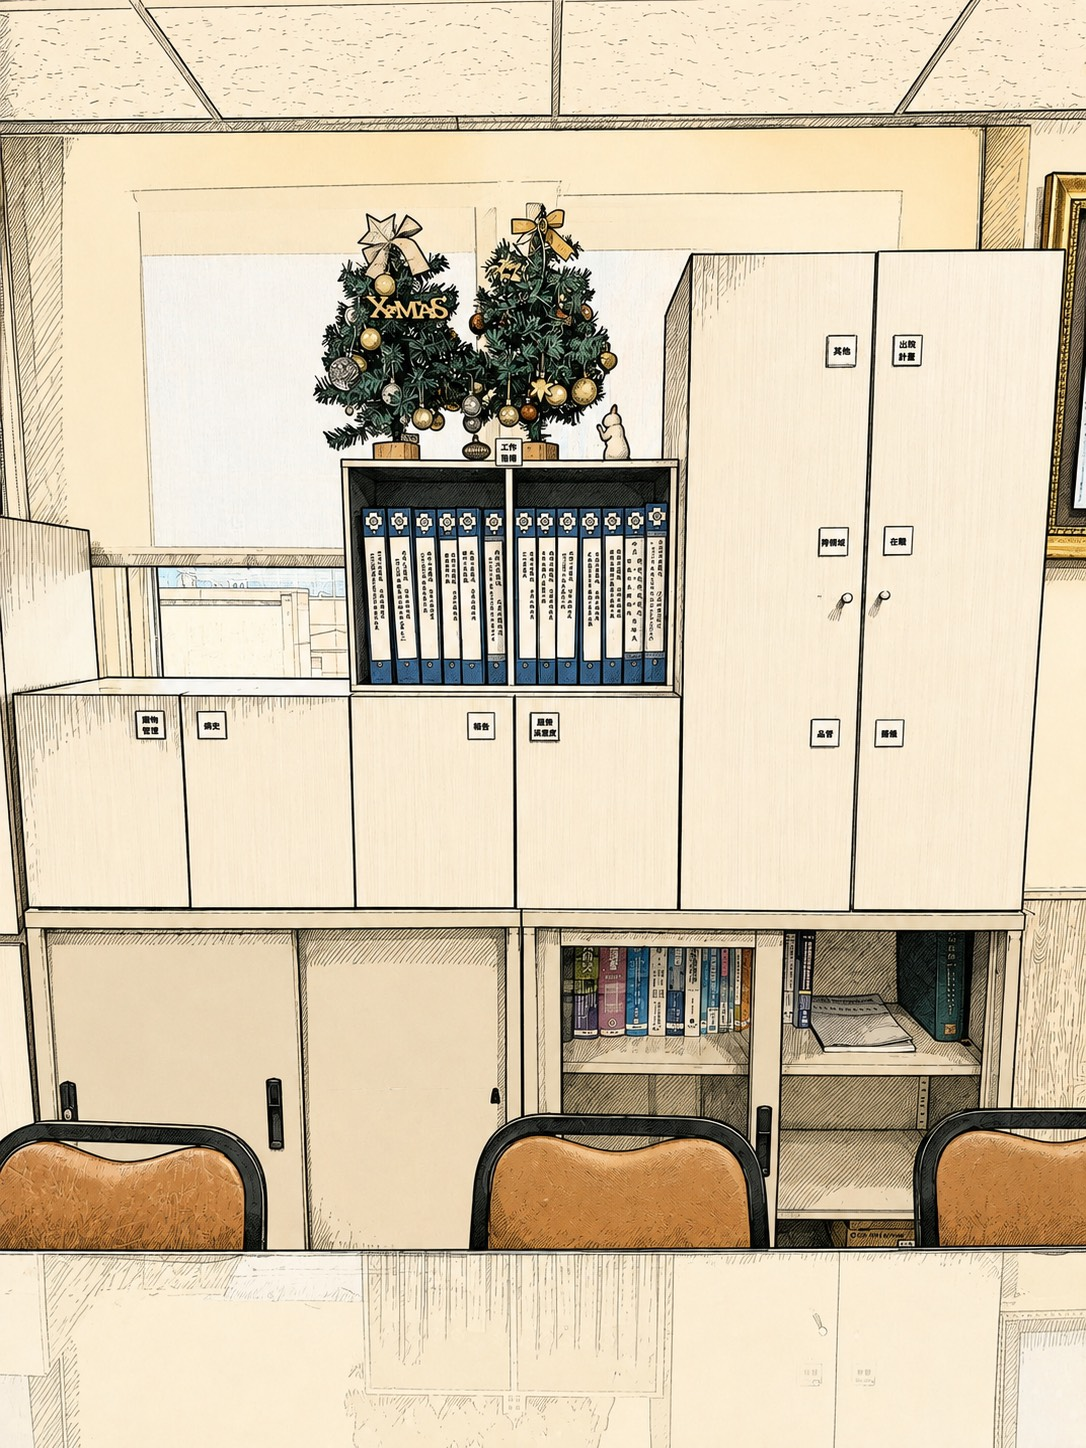
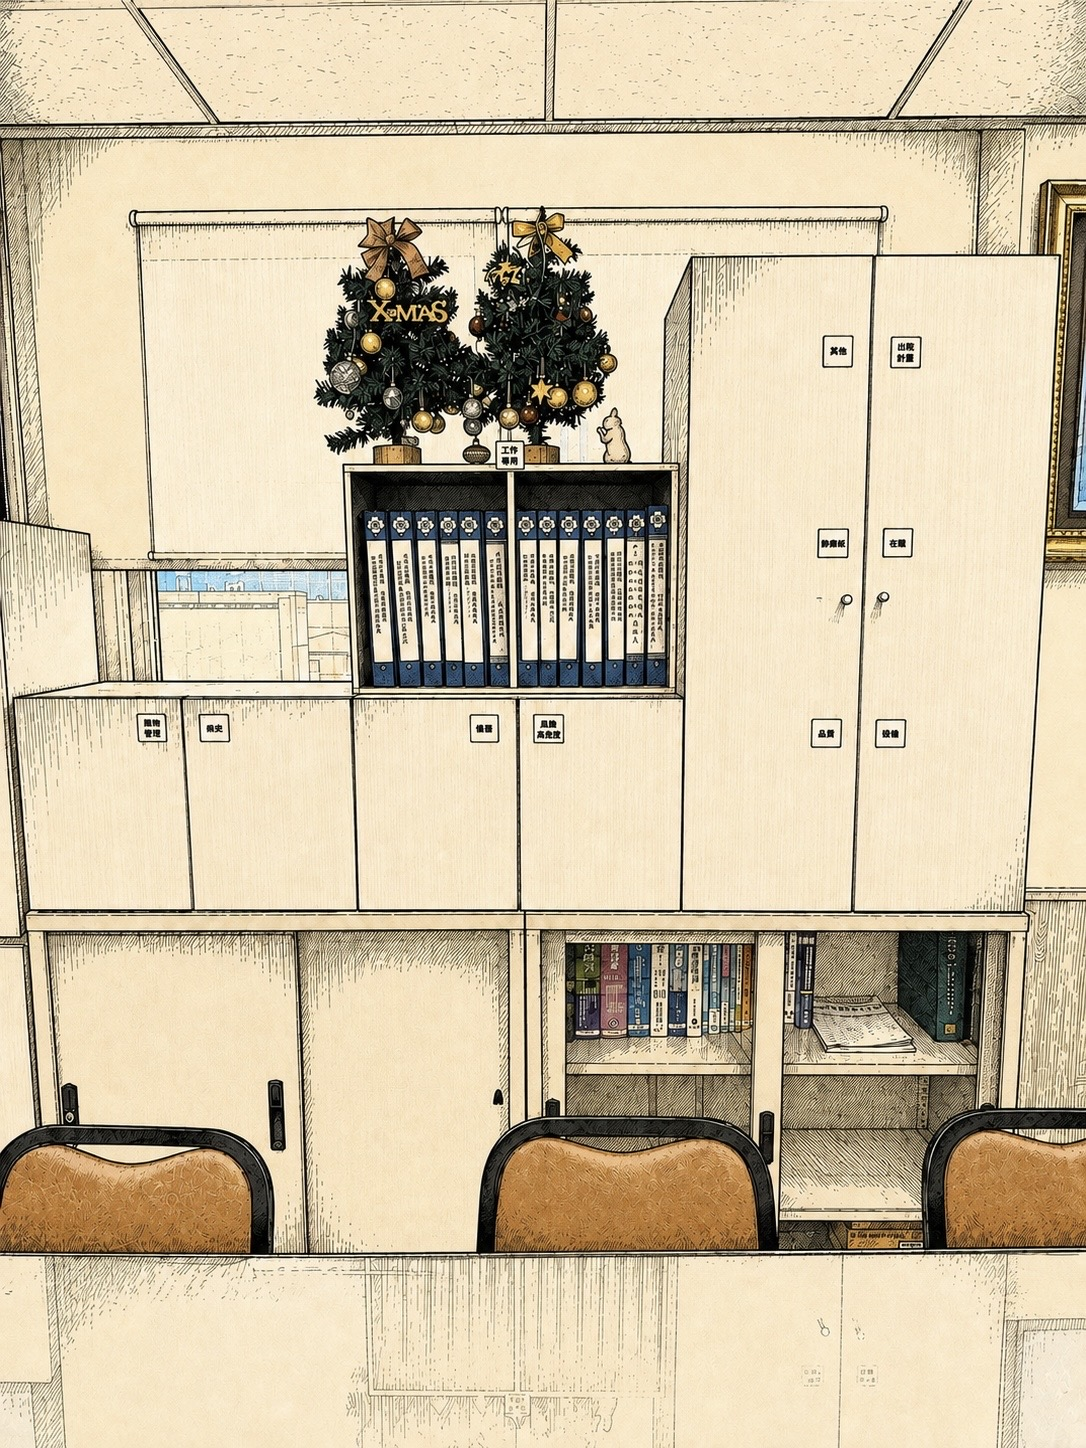
update(game): 會議室場景更新 + 對話/劇本內容
- 新增會議室櫃子開/關圖片素材
- 更新場景/對話/動作/劇本資料

diff --git a/public/game/js/SceneViewer.js b/public/game/js/SceneViewer.js
@@ -97,7 +97,11 @@ export class SceneViewer {
 
     // 決定下一張要顯示到哪個 img slot（跟目前不同的那張）
     const next = this._activeImg === this.imgA ? this.imgB : this.imgA;
-    const url = this.imageBase + scene.image;
+    // 自動找出實際存在的副檔名（.jpg/.png/.webp）；使用者放的檔名跟 scenes.json
+    // 寫的副檔名不一致也 OK，用哪個都會被找到。
+    const image = await this._resolveImage(scene);
+    if (token !== this._renderToken) return;
+    const url = this.imageBase + image;
     const absUrl = new URL(url, location.href).href;
     next.alt = "（尚未提供圖片：" + scene.image + "）";
 
@@ -197,16 +201,52 @@ export class SceneViewer {
     Object.keys(this.scenes).forEach((id) => this._preload(id));
   }
 
-  _preload(sceneId) {
+  async _preload(sceneId) {
     const s = this.scenes[sceneId];
     if (!s || !s.image) return;
-    const url = this.imageBase + s.image;
+    // 先解析出實際存在的副檔名，順便預先下載＋解碼
+    const image = await this._resolveImage(s);
+    const url = this.imageBase + image;
     if (SceneViewer._preloaded.has(url)) return;
     SceneViewer._preloaded.add(url);
     const img = new Image();
     img.src = url;
-    // 用 decode() 觸發背景解碼，切場景時就不用再 decode
     if (img.decode) img.decode().catch(() => {});
+  }
+
+  // 找出 scene.image 對應的實際檔案：依序試 scene.image 本身、然後常見副檔名
+  // (jpg/png/webp)。第一個能載入的就記在 scene._resolvedImage，之後直接用。
+  async _resolveImage(scene) {
+    if (scene._resolvedImage) return scene._resolvedImage;
+    if (scene._resolvingPromise) return scene._resolvingPromise;
+
+    const candidates = this._imageCandidates(scene.image);
+    scene._resolvingPromise = (async () => {
+      for (const name of candidates) {
+        const ok = await this._probeImage(this.imageBase + name);
+        if (ok) { scene._resolvedImage = name; return name; }
+      }
+      // 全部載不到 → 用原本寫的（讓錯誤照舊觸發 sv-broken）
+      scene._resolvedImage = scene.image;
+      return scene.image;
+    })();
+    return scene._resolvingPromise;
+  }
+
+  _imageCandidates(imageField) {
+    const base = imageField.replace(/\.(jpe?g|png|webp|gif)$/i, "");
+    const list = [imageField, base + ".jpg", base + ".png", base + ".webp"];
+    // 去重、維持順序
+    return list.filter((v, i) => list.indexOf(v) === i);
+  }
+
+  _probeImage(url) {
+    return new Promise((resolve) => {
+      const img = new Image();
+      img.onload = () => resolve(true);
+      img.onerror = () => resolve(false);
+      img.src = url;
+    });
   }
 
   _layoutPixelHotspots() {

diff --git a/public/game/index.html b/public/game/index.html
@@ -50,14 +50,16 @@
   /* ---- SceneViewer ---- */
   .sv-root{width:100%}
   /* 外框用 aspect-ratio 鎖成 1086/1448（＝3/4），任何場景切換都不會 reflow */
+  /* isolation:isolate → 讓內部的 z-index 只在框內生效，不會漏出來壓到對話框 */
   .sv-frame{position:relative;width:100%;aspect-ratio:1086/1448;overflow:hidden;
+    isolation:isolate;
     border:4px solid var(--wall);border-radius:18px;
     background:linear-gradient(135deg,#d9c9ad,#c9b79c);
     box-shadow:0 6px 0 var(--wall2),0 12px 24px #0002}
   /* 兩張 <img> 疊在一起。當前顯示的加 .on（opacity:1、z-index:1），
      另一張在背後預先 decode。切換時淡入淡出，看不出換圖動作。 */
   .sv-image{position:absolute;inset:0;width:100%;height:100%;object-fit:cover;
-    opacity:0;z-index:0;transition:opacity .18s ease;pointer-events:none}
+    opacity:0;z-index:0;transition:opacity .08s linear;pointer-events:none}
   .sv-image.on{opacity:1;z-index:1}
   /* 圖片載入失敗時的佔位樣式 */
   .sv-frame.sv-broken .sv-image.on{object-fit:contain;color:var(--muted);
@@ -82,8 +84,9 @@
   .sv-exit:active{transform:translate(0,1px)}
 
   /* ---- Dialogue ---- */
+  /* z-index:50 → 保險，確保永遠在場景與 hotspot 之上 */
   .dlg-overlay{position:absolute;inset:0;display:none;align-items:flex-end;justify-content:center;
-    background:linear-gradient(to top,#0004,transparent 45%);border-radius:18px}
+    background:linear-gradient(to top,#0004,transparent 45%);border-radius:18px;z-index:50}
   .dlg-overlay.on{display:flex}
   .dlg-box{width:94%;margin-bottom:14px;background:var(--panel);border:3px solid var(--accent);
     border-radius:16px;padding:14px 16px;box-shadow:0 8px 24px #0003}

diff --git a/public/game/js/Dialogue.js b/public/game/js/Dialogue.js
@@ -65,6 +65,17 @@ export class Dialogue {
     this.textEl = this.overlay.querySelector(".dlg-text");
     this.choicesEl = this.overlay.querySelector(".dlg-choices");
     this.contBtn = this.overlay.querySelector(".dlg-cont-btn");
+
+    // 線性對話（無 choices）時，點對話框任何位置也能繼續 —— 手機比較好按。
+    // 若有選項則忽略（避免誤觸選項變成隨機推進）。
+    this.overlay.addEventListener("click", (e) => {
+      if (!this.active) return;
+      if (this.choicesEl.children.length > 0) return; // 有選項時不 autoadvance
+      // 已點在選項按鈕或繼續按鈕上時，讓原生 handler 處理
+      if (e.target.closest(".dlg-opt") || e.target.closest(".dlg-cont-btn")) return;
+      if (this.contBtn.parentElement.style.display === "none") return;
+      this.contBtn.click();
+    });
   }
 
   isActive() {

diff --git a/public/game/js/actions.js b/public/game/js/actions.js
@@ -57,6 +57,18 @@ export const actionHandlers = {
     });
   },
 
+  // 會議室櫃子鎖孔：要先在背包點選「會議室櫃子鑰匙」再點鎖孔才會開
+  // 開了以後鑰匙就消失（單次使用）
+  use_cabinet_key(ctx) {
+    if (ctx.inventory.getSelected() === "conference_cabinet_key") {
+      ctx.inventory.clearSelection();
+      ctx.state.removeItem("conference_cabinet_key");
+      ctx.viewer.goto("conference_RLQ_open");
+    } else {
+      ctx.dialogue.run("need_select_cabinet_key");
+    }
+  },
+
   // 之後陸續補：其他 hotspot 事件 ...
 };
 
